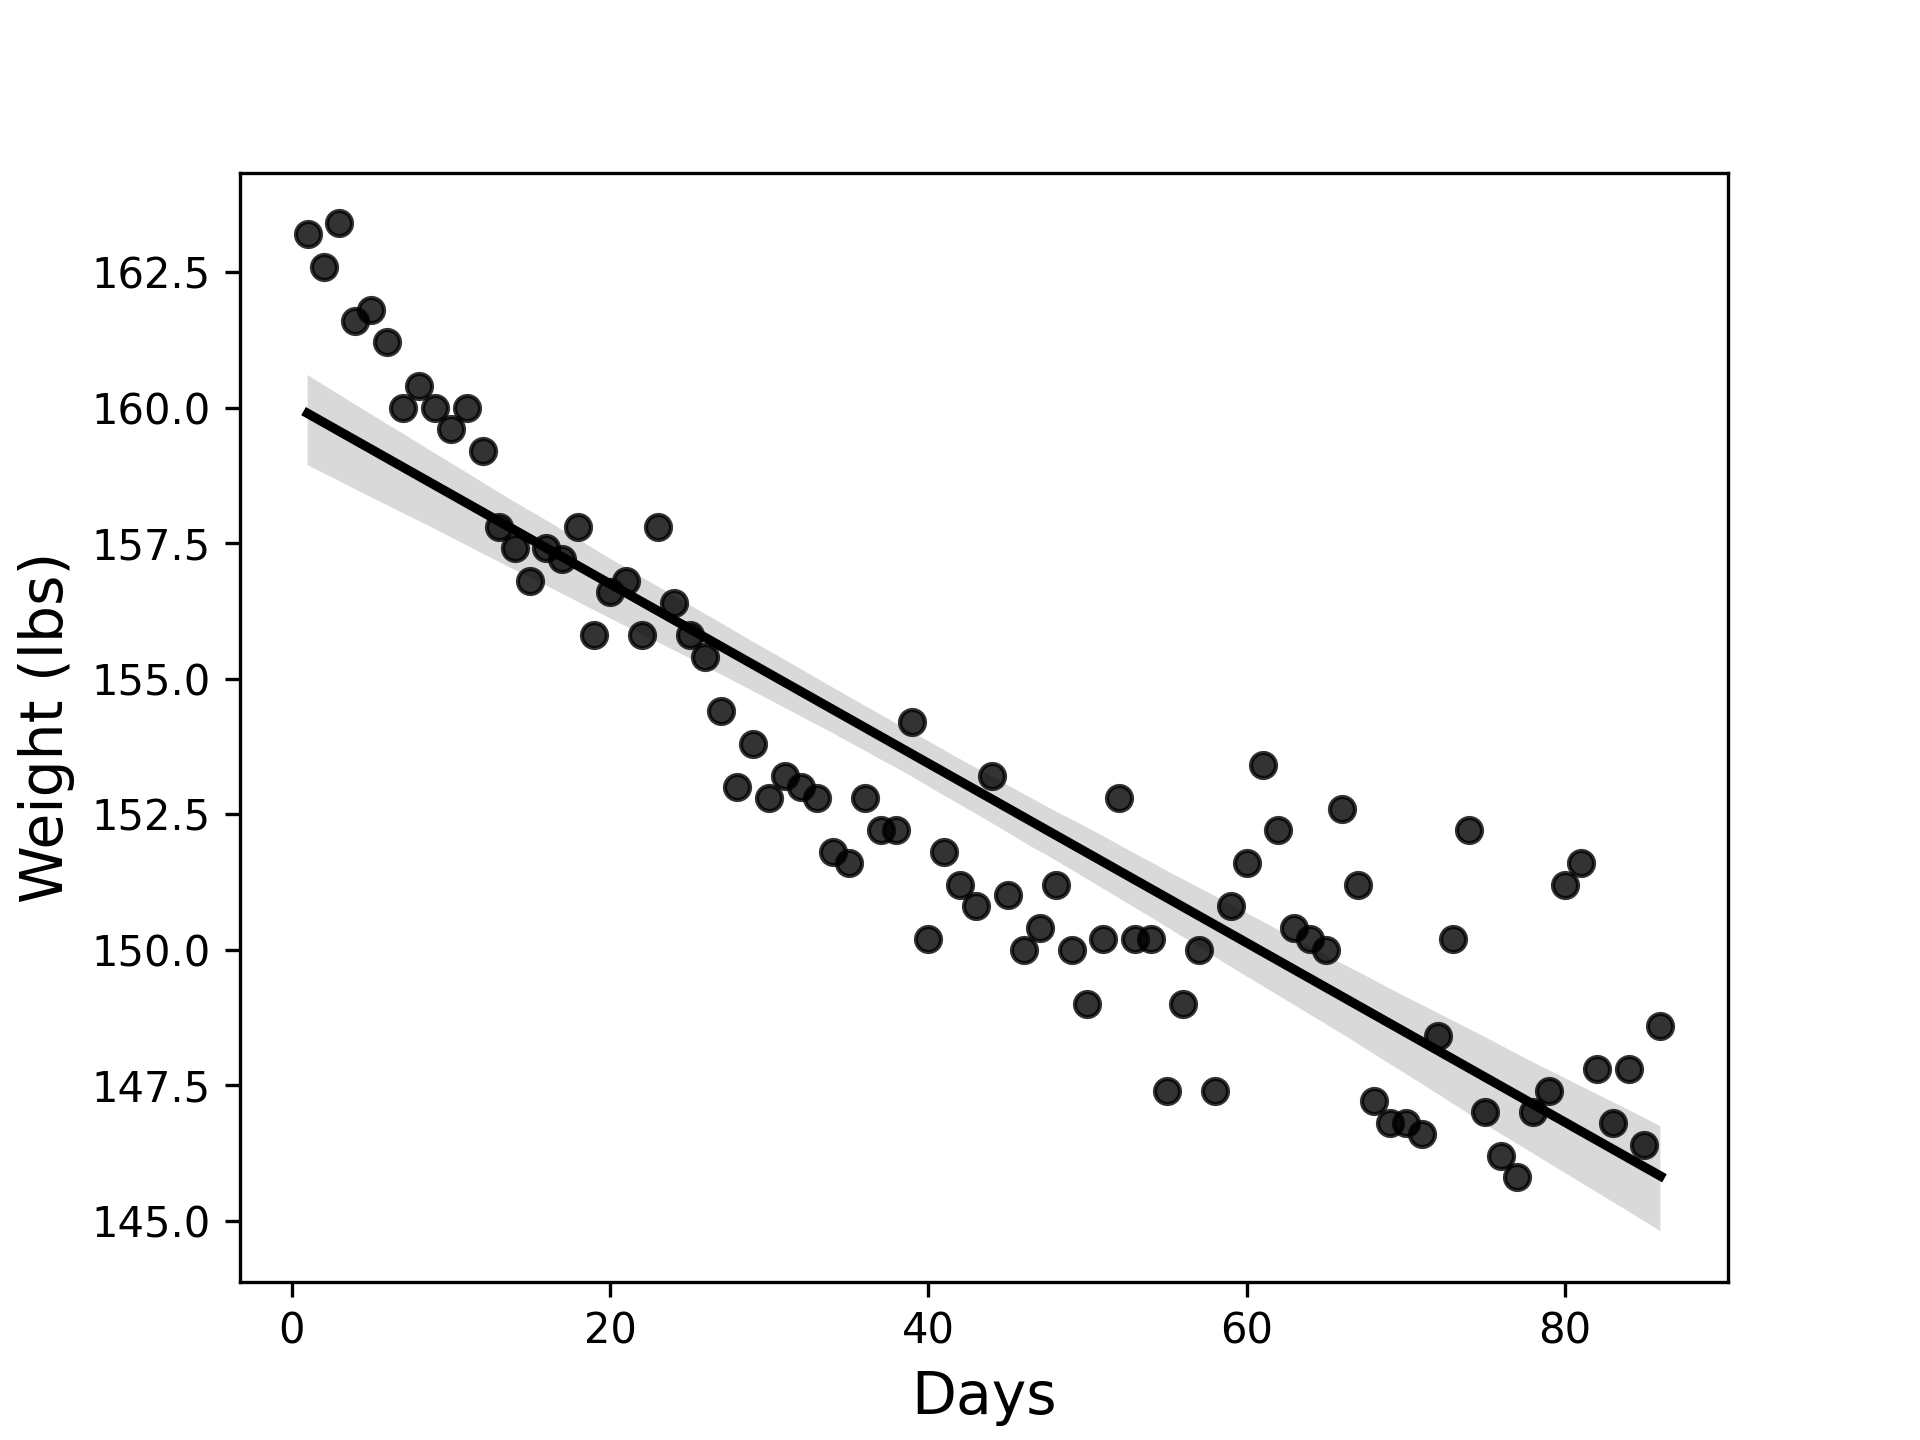
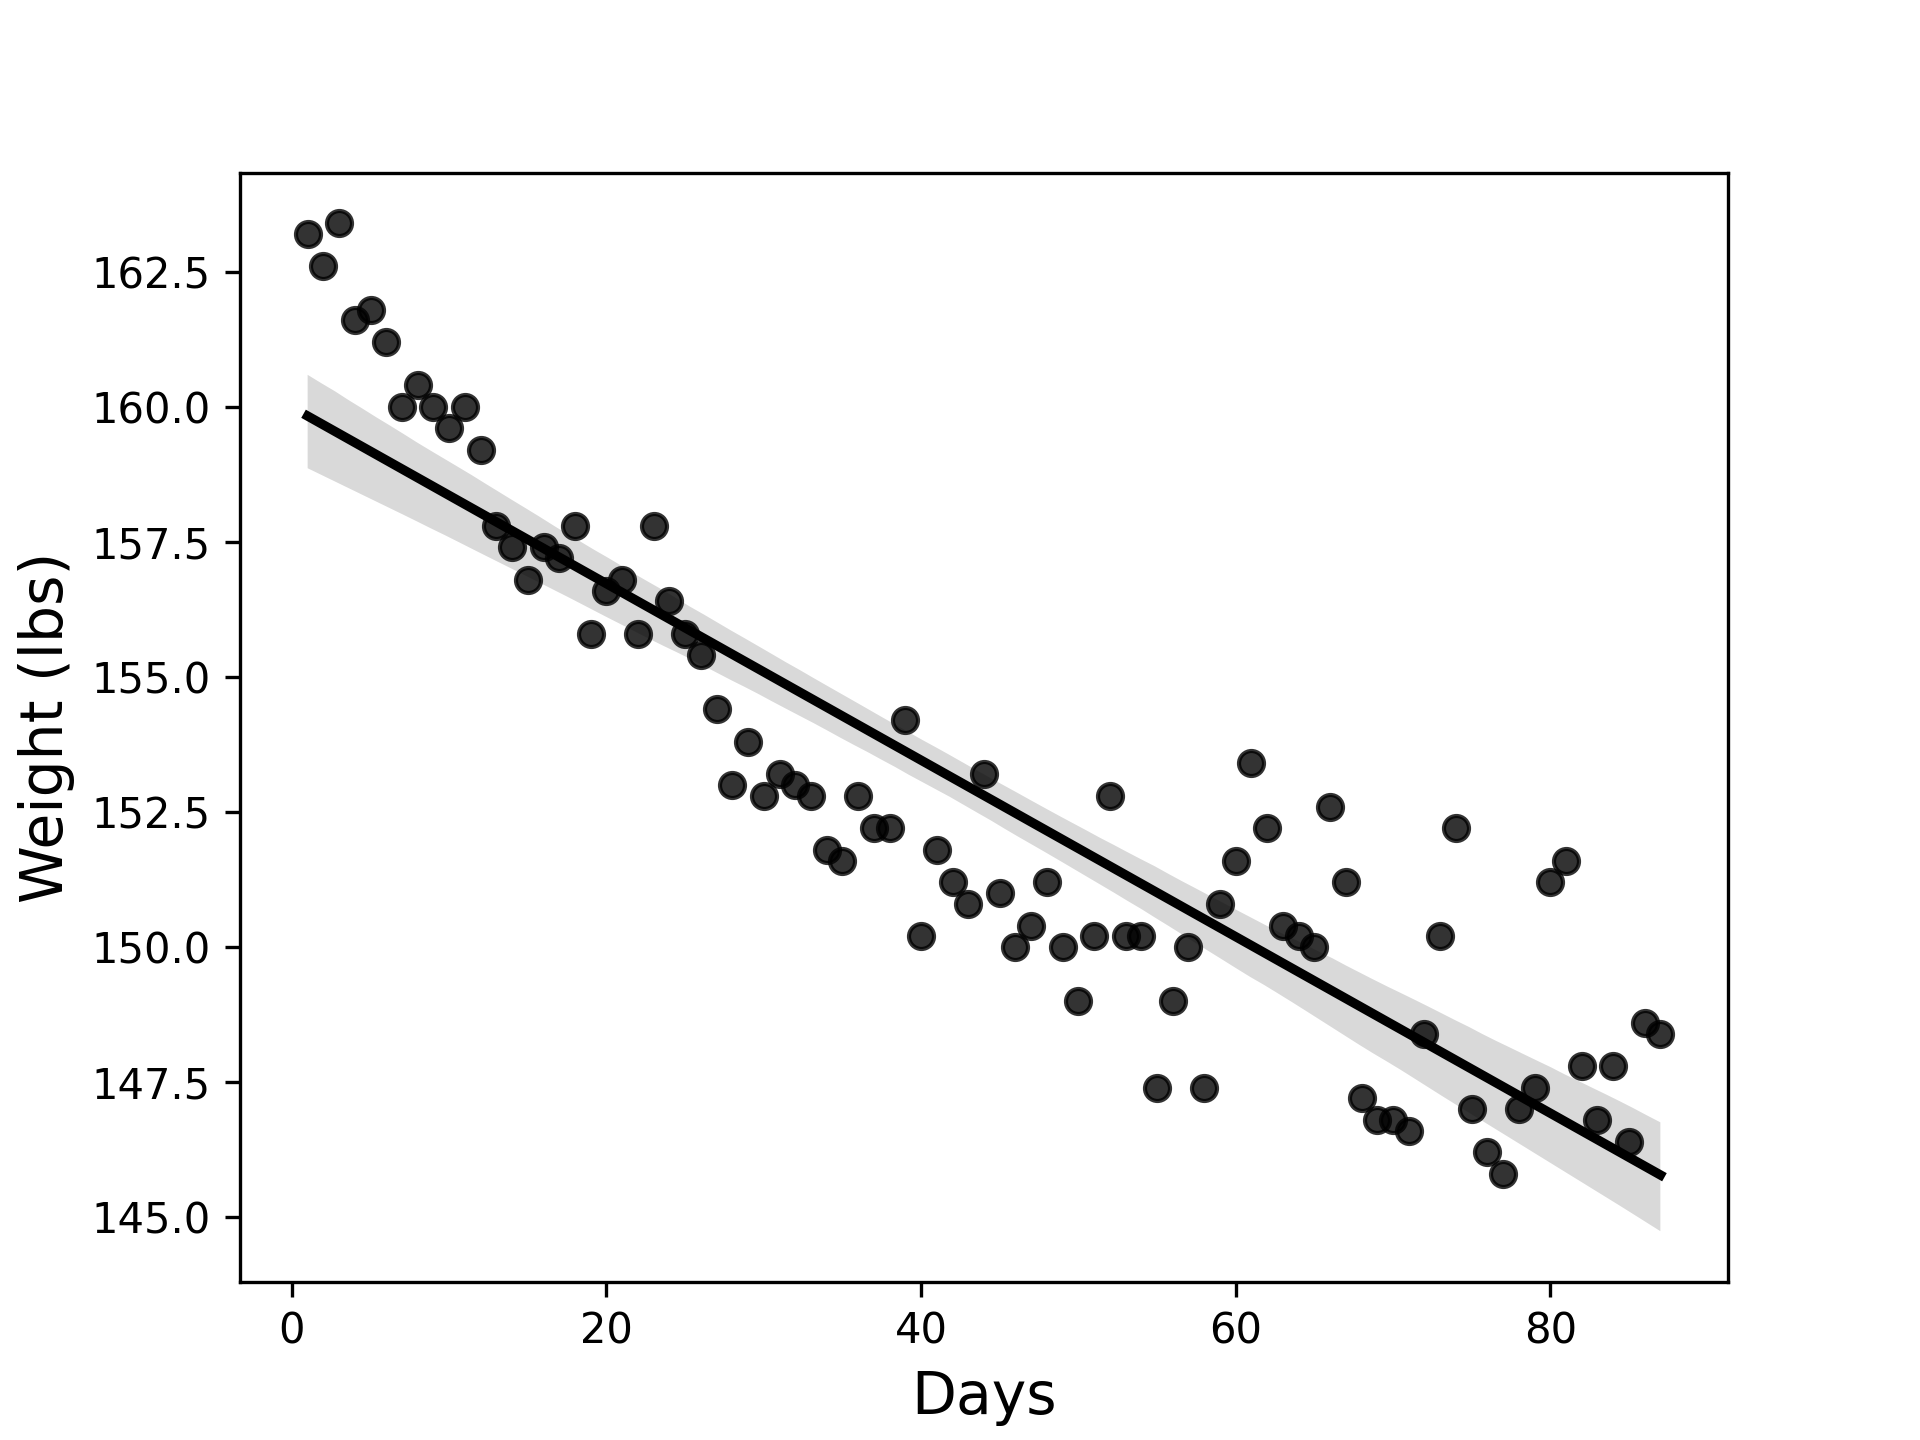
Updated weight.py and weight.png

diff --git a/Weight.py b/Weight.py
@@ -9,14 +9,14 @@ days_elapsed = np.array([1, 2, 3 ,4, 5, 6, 7, 8, 9, 10,11,12,13, 14,15,16,17,18,
                          19, 20,21,22,23,24,25,26,27,28,29,30,31,32,33,34,35,36,37,38,39,
                          40,41,42,43,44,45,46,47,48,49,50,51,52,53,54,55,56,57,58,59,60,61,62,
                          63,64,65,66,67,68,69,70,71,72,73,74,75,76,77,78,79,80,81,82,83,84,
-                         85,86]).reshape(-1,1)
+                         85,86,87]).reshape(-1,1)
 weight = np.array([163.2, 162.6, 163.4, 161.6, 161.8, 161.2, 160.0, 160.4, 160.0, 159.6,160.0,159.2,157.8, 157.4,156.8,157.4,
                    157.2, 157.8,155.8, 156.6,156.8,155.8,157.8,156.4,155.8,155.4,154.4,153.0,153.8,152.8,153.2,
                    153.0,152.8,151.8,151.6,152.8,152.2,152.2,154.2,150.2, 151.8,151.2,150.8,153.2,
                    151.0,150.0,150.4,151.2,150.0,149.0,150.2,152.8,150.2,150.2,147.4,149.0,150.0,147.4,
                    150.8,151.6,153.4,152.2,150.4,150.2,150.0,152.6,151.2,147.2,146.8,146.8,146.6,
                    148.4,150.2,152.2,147.0,146.2,145.8,147.0,147.4,151.2,151.6,147.8,146.8,147.8,
-                   146.4,148.6])
+                   146.4,148.6,148.4])
 # Day 62 BP
 
 # Instantiates a LinearRegression model and fits it to the above arrays
